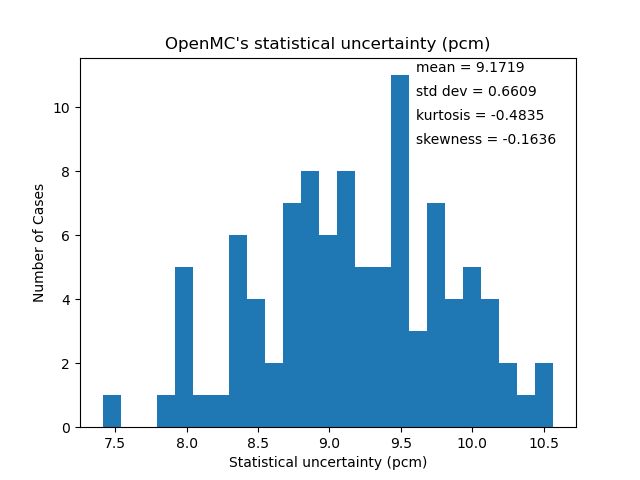
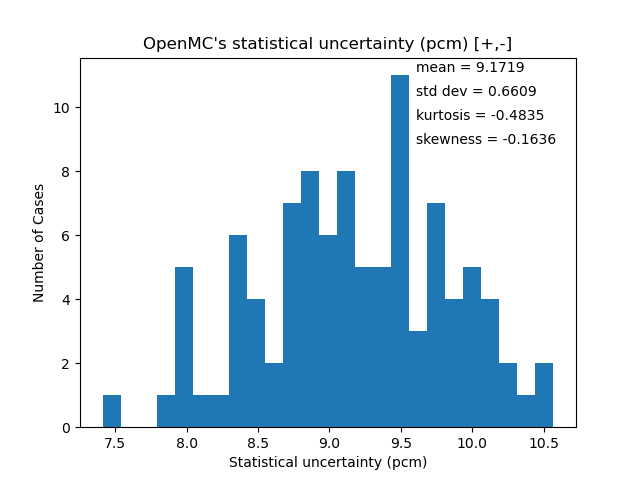
yep

Changed region(s): [[0.2188, 0.0625, 0.7812, 0.125]]

diff --git a/Openmc_godiva/Openmc_delta_keff.py b/Openmc_godiva/Openmc_delta_keff.py
@@ -43,7 +43,7 @@ plt.clf()
 
 plt.hist(uncert, bins=25, density=False)
 
-plt.title(f"OpenMC's statistical uncertainty (pcm)")
+plt.title(f"OpenMC's statistical uncertainty (pcm) [+,-]")
 plt.xlabel('Statistical uncertainty (pcm)')
 plt.ylabel('Number of Cases')
 plt.figtext(.65, .85, f"mean = {round(mean2,4)}")
